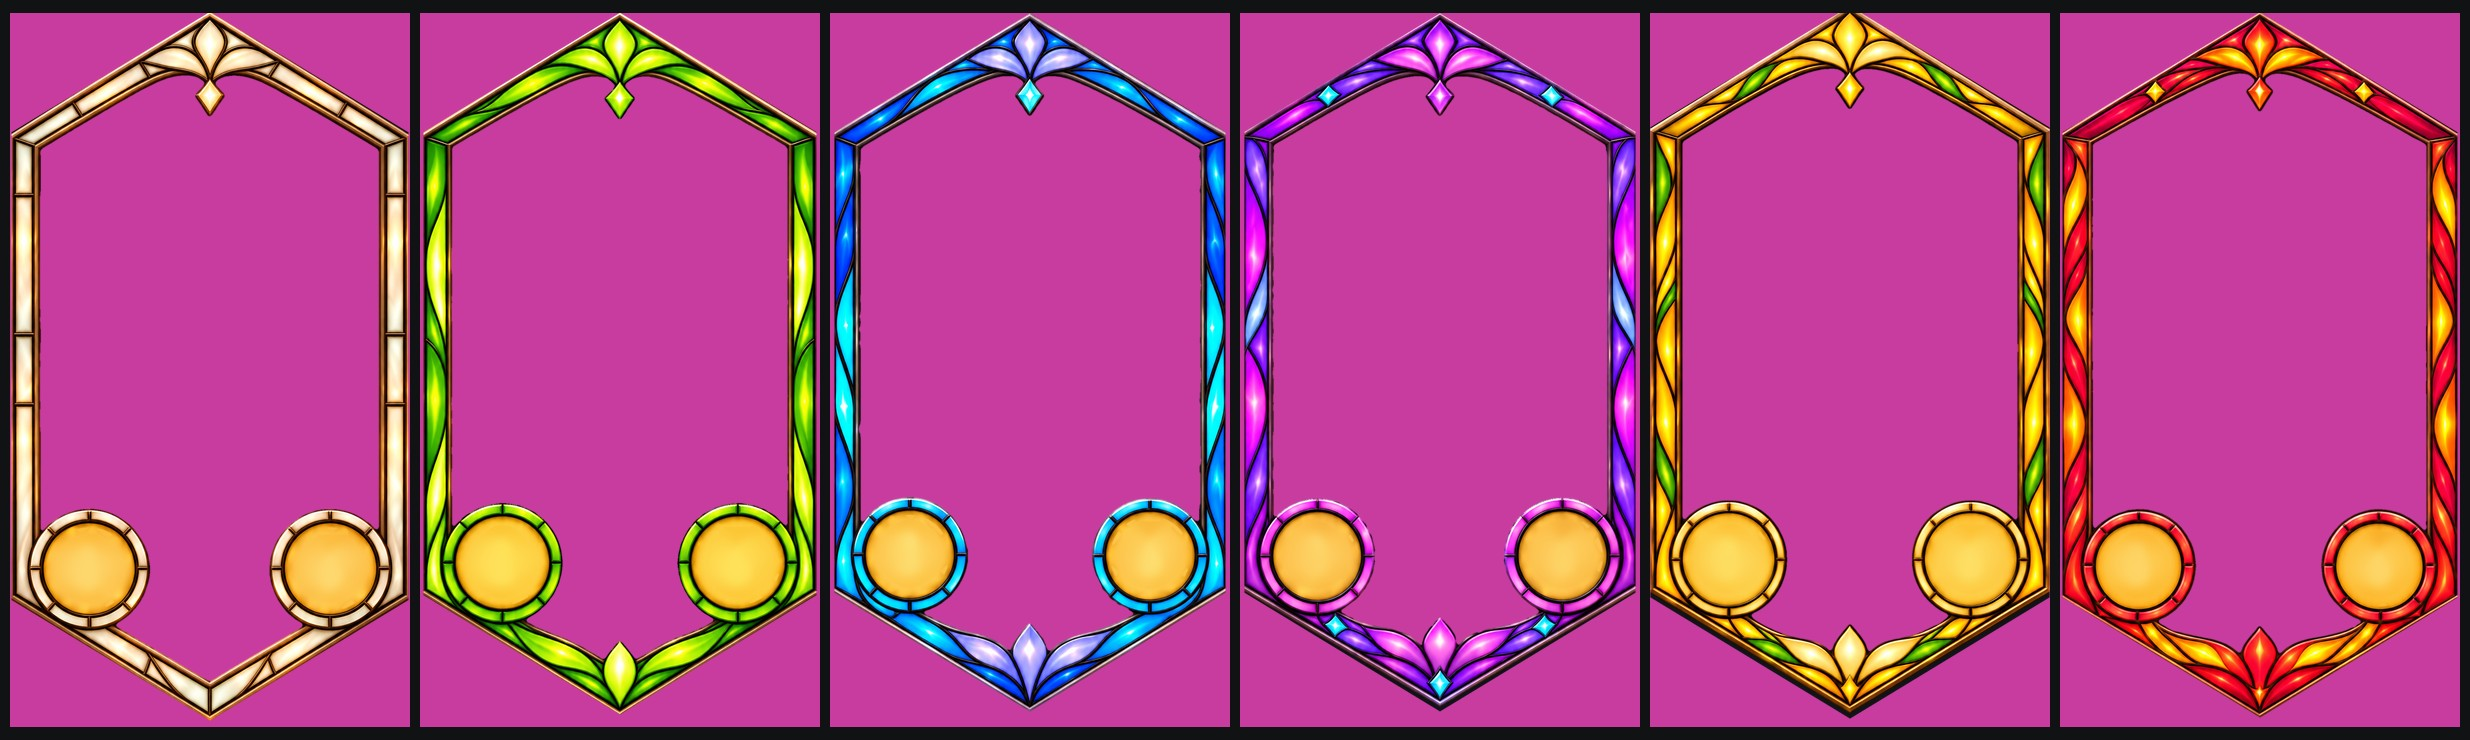
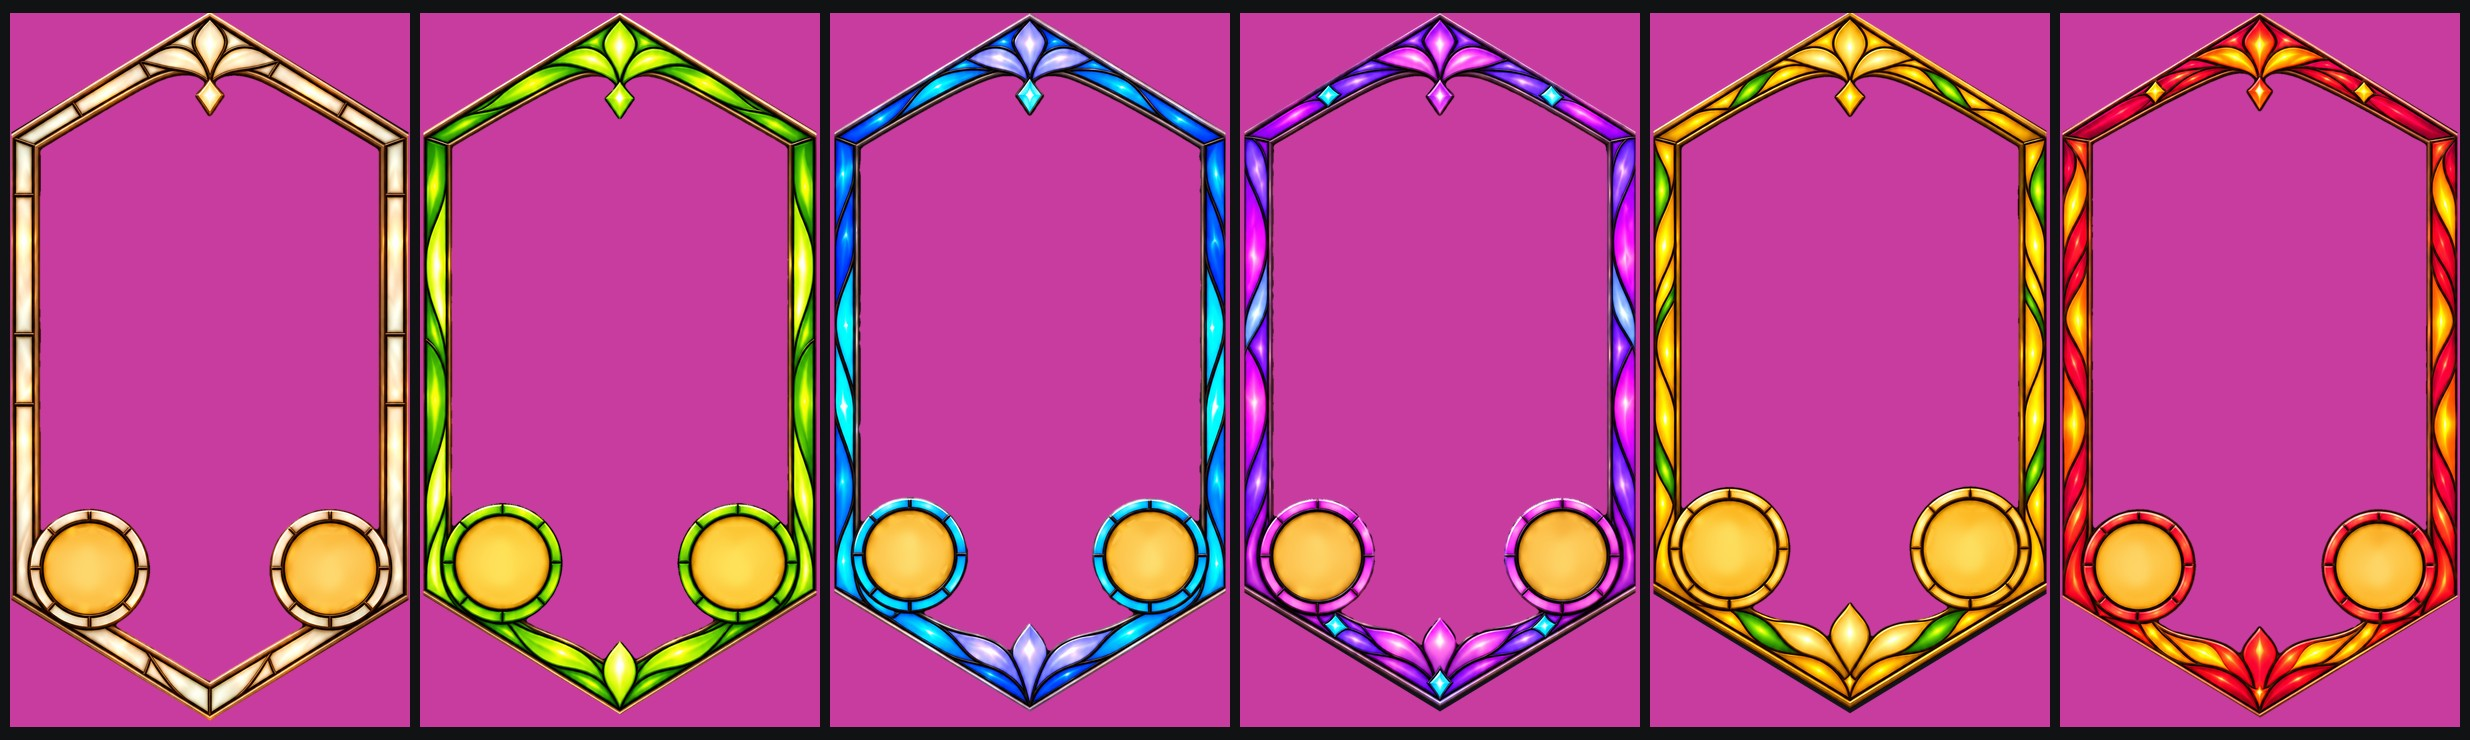
Frames: tier 5 redrawn to sit inside the art window, take C (owner, 15 Nov)

Changed region(s): [[0.6547, 0.0, 0.8417, 0.9635]]

diff --git a/docs/workstreams/glass-frames.md b/docs/workstreams/glass-frames.md
@@ -3,7 +3,7 @@
 <!-- status -->
 - **In short:** The card frames are decided: the owner locked in the thinner frames with a small hanging diamond under the top accent ("take 1" of the last run), and they have gone to the art session.
 - **Status:** done
-- **Last step done:** Painted the "3" and "5" out of the roundels so the game can draw the real Attack and Health; disc positions are in `final/roundels.json` (15 Nov 2026).
+- **Last step done:** Tier 5 redrawn so its opening sits inside the art window like the other tiers; the owner chose take C (15 Nov 2026).
 - **Next step:** A clean high-resolution redraw of the six frames when the game needs them; the art session carries on from these.
 - **Waiting on you:** Nothing.
 <!-- /status -->
@@ -141,3 +141,9 @@ The frames came with "3" and "5" painted on the roundels. The owner: "leave the 
 [tools/art/frame_blank_roundels.py](../../tools/art/frame_blank_roundels.py) paints the numerals out of every frame in `final/` (both sizes): the middle of each gold disc takes a smooth fill of its own colour, fading back to the original glass towards the ring, so the disc keeps its glow and shows no outline of the old number. The ring and the rest of the frame are not touched. [roundels-check.jpg](../design/art-direction/frame-lab/final/roundels-check.jpg) shows the blank discs and sample numbers drawn on them.
 
 [final/roundels.json](../design/art-direction/frame-lab/final/roundels.json) gives each disc's centre and radius per tier, in card px (1120 x 2000) and card units (560 x 1000). The game draws Attack on the left disc and Health on the right. The discs differ by a few units between tiers, so use each tier's own numbers.
+
+## Tier 5 redrawn to fit the art window (owner, 15 Nov 2026)
+
+Tier 5's opening reached 5.2 units past the art window along its two upper slopes, where its border was thinner than the other tiers'. The owner chose to have it redrawn rather than keep a wider art margin (asked in the art session): "Redraw tier 5".
+
+Codex drew three takes of tier 5 alone with the same attachments as the large redraw and one added line: the border reaches the guide's inner line along the upper slopes too ([prompt](../../tools/art/prompts/glass-frames-hires-t5.txt), [comparison](../design/art-direction/frame-lab/tier5-redraw.jpg)). All three fit. The owner chose take C: "Take C". Its opening sits 1.8 to 2.7 units inside the line on the upper slopes, like the other tiers (1.6 to 4). Its roundel rings are a little heavier, and its discs are slightly larger and higher (radius 65 units, centre y 751); `final/roundels.json` has its numbers. Source: `frame-lab/masters/hires-t5/tier5-c.png`, kept locally; `guides/hires1.json` now points tier 5 at it.
